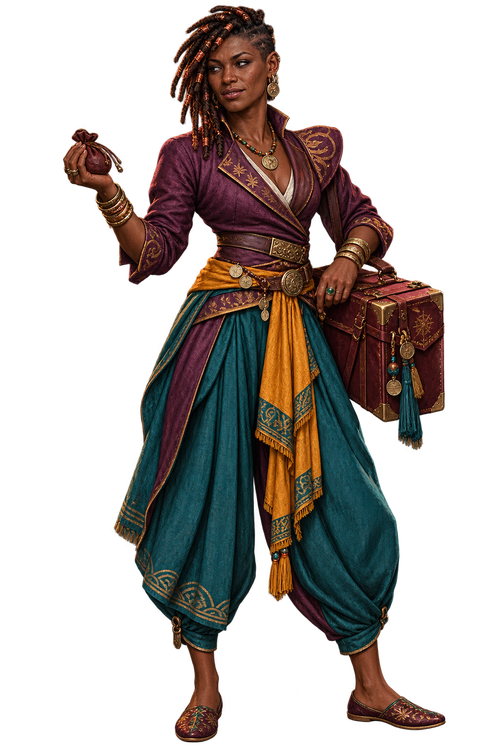
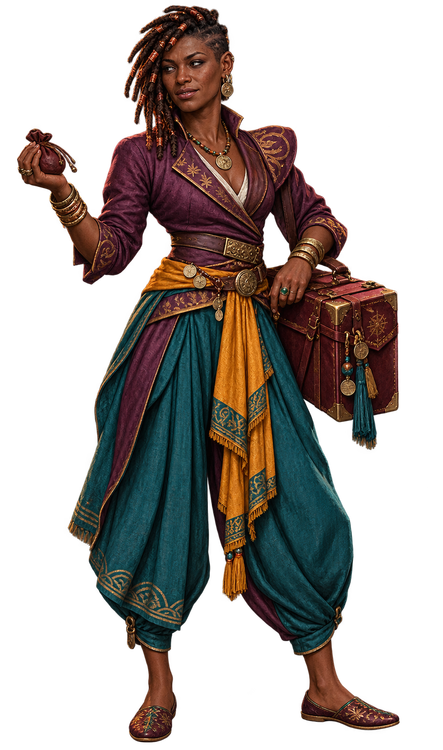
C1: exact door coords, Isolde/Cade go home, fix livelock bug, voice clips for every NPC, portrait crop fix
- Doors reverted to Danny's exact coords (blocked terrain OK per his call);
  Senna/Nils flagged as slightly past interaction range
- Tidepool Cove landmark moved to (2241,349)
- Isolde/Cade now have real leaveHome/goto/goHome routines
- Found + fixed a real livelock: leaveHome teleports to home.door literally,
  and Garrick's + Cade's doors sit deep inside their building's collision --
  added home.approach (existing mechanism) as a walkable step-out point.
  Caught via a rigorous non-retroactive stuck-detector; the project's usual
  idle-tracker has a blind spot for a permanent freeze
- Also fixed a ~10px-clearance goto waypoint for Cade (livelock, unrelated
  cause) -- moved to a 40px-clearance point
- Assigned voice clips to all 20 previously-silent NPCs (Calder Rusk, Edras
  Holloweye, 6 Bramblekin, 12 C1 villagers) -- 45/45 talkable NPCs covered
- Cropped all 12 C1 portraits narrower (not shorter) to match the rest of
  the cast's tight waist-up framing -- source art was full-body with wide
  side margins, reading as smaller/more distant in the fixed-width frame
- Re-verified: 1800s sim, all NPCs complete clean repeating cycles, zero
  permanent freezes; logged in CLAUDE.md

diff --git a/js/data/c1.js b/js/data/c1.js
@@ -424,25 +424,31 @@ export default {
     // the same offset as its door move, preserving the original label-to-door
     // relationship ("drawn just above the door" — see world.js's building-
     // label comment) rather than the label sitting wherever it used to.
+    // Doors use Danny's EXACT coordinates even where that lands inside
+    // collision (round 2, same day — he confirmed that's fine: the door only
+    // needs SOME walkable ground within interaction range, not to itself be
+    // walkable; see world.js's DOOR_RANGE=79 and homeNpcNearDoor()). Two are
+    // a little past that range — Senna ~87px, Nils ~80px to the nearest
+    // walkable ground — flagged in CLAUDE.md; the rest are within range.
     { label: 'Dockmaster’s Warehouse', x: 1233, y: 1069, r: 260, door: { x: 1223, y: 1349 } },
     { label: 'Perrin’s Cookhouse', x: 2147, y: 1457, r: 190, door: { x: 2024, y: 1460 } },
     { label: 'The Farrows’ House', x: 1880, y: 1370, r: 180, door: { x: 1781, y: 1569 } },
     { label: 'Wynne’s House', x: 1940, y: 826, r: 180, door: { x: 1926, y: 933 } },
     { label: 'Garrick’s House', x: 1649, y: 566, r: 180, door: { x: 1622, y: 753 } },
-    { label: 'Senna’s House', x: 2014, y: 613, r: 170, door: { x: 1990, y: 750 } },
-    { label: 'Aldous’s House', x: 2272, y: 618, r: 170, door: { x: 2280, y: 750 } },
-    { label: 'Nils’s House', x: 2245, y: 1193, r: 170, door: { x: 2220, y: 1070 } },
+    { label: 'Senna’s House', x: 2015, y: 526, r: 170, door: { x: 1991, y: 663 } },
+    { label: 'Aldous’s House', x: 2277, y: 545, r: 170, door: { x: 2285, y: 677 } },
+    { label: 'Nils’s House', x: 2250, y: 1113, r: 170, door: { x: 2225, y: 990 } },
     { label: 'Skitter’s Shed', x: 1312, y: 1743, r: 190, door: { x: 1199, y: 1736 } },
-    // Isolde and Cade are still wandering Tidefolk (patrol, never actually
-    // go home — see their npc entries below), but the tide-pool cove has
-    // real houses for them now (2026-09-03); doors added so the buildings
-    // are enterable-when-home like any other, even though they're always
-    // out (door reads "locked" — same as any home NPC who's away).
-    { label: 'Isolde’s House', x: 2130, y: 1730, r: 180, door: { x: 2130, y: 1880 } },
-    { label: 'Cade Fathom’s House', x: 2330, y: 1950, r: 180, door: { x: 2330, y: 2100 } },
+    // Isolde and Cade have real houses now (2026-09-03) and go home
+    // occasionally like any other villager (see their npc entries below —
+    // they were patrol-only wanderers before this pass).
+    { label: 'Isolde’s House', x: 2206, y: 1728, r: 180, door: { x: 2206, y: 1878 } },
+    { label: 'Cade Fathom’s House', x: 2377, y: 1894, r: 180, door: { x: 2377, y: 2044 } },
     { label: 'The Old Well', x: 1300, y: 300, r: 180 },
     { label: 'Maiden’s Grace', x: 500, y: 1400, r: 480 },
-    { label: 'Tidepool Cove', x: 2200, y: 1900, r: 300 },
+    // Moved 2026-09-03 (Danny) — north, near the crossroads well, not the
+    // south tide-pool where Isolde/Cade actually live (per his exact coords).
+    { label: 'Tidepool Cove', x: 2241, y: 349, r: 300 },
   ],
 
   // Chimney smoke on half the village's homes (2026-09-03, Danny) — thin
@@ -458,7 +464,7 @@ export default {
     { x: 1622, y: 563, count: 11, rise: 150, drift: 13, baseR: 5, growR: 15, speed: 0.12, alpha: 0.34, seed: 0.4 },
     { x: 2225, y: 800, count: 11, rise: 150, drift: 13, baseR: 5, growR: 15, speed: 0.12, alpha: 0.34, seed: 0.6 },
     { x: 1199, y: 1546, count: 11, rise: 150, drift: 13, baseR: 5, growR: 15, speed: 0.12, alpha: 0.34, seed: 0.8 },
-    { x: 2330, y: 1910, count: 11, rise: 150, drift: 13, baseR: 5, growR: 15, speed: 0.12, alpha: 0.34, seed: 1.0 },
+    { x: 2377, y: 1854, count: 11, rise: 150, drift: 13, baseR: 5, growR: 15, speed: 0.12, alpha: 0.34, seed: 1.0 },
   ],
 
   entrances: [],
@@ -588,7 +594,12 @@ export default {
       sprite: 'assets/images/garrick_hollowmast_overhead.png',
       portrait: 'assets/images/garrick_hollowmast.png',
       x: 1414, y: 636, speed: 38, startsHome: false,
-      home: { door: { x: 1622, y: 753 }, interior: 'assets/images/beach_hut_interior.jpg' },
+      // door sits deep enough inside the building's collision that leaveHome/
+      // goHome couldn't path to/from it directly (found via a livelock sim,
+      // 2026-09-03 round 3) — `approach` gives them a real walkable step-out
+      // point nearby instead (world.js already prefers approach over door for
+      // all actual walking; door alone still governs interaction range).
+      home: { door: { x: 1622, y: 753 }, approach: { x: 1480, y: 720 }, interior: 'assets/images/beach_hut_interior.jpg' },
       routine: [
         { do: 'wait', s: 7 },
         { do: 'goto', x: 1464, y: 586 },
@@ -611,11 +622,11 @@ export default {
       sprite: 'assets/images/senna_brineholt_overhead.png',
       portrait: 'assets/images/senna_brineholt.png',
       speed: 40, startsHome: true,
-      home: { door: { x: 1990, y: 750 }, interior: 'assets/images/beach_hut_interior.jpg' },
+      home: { door: { x: 1991, y: 663 }, interior: 'assets/images/beach_hut_interior.jpg' },
       routine: [
         { do: 'wait', s: 60 },
         { do: 'leaveHome' },
-        { do: 'goto', x: 2084, y: 853 },
+        { do: 'goto', x: 2085, y: 766 },
         { do: 'wait', s: 6 },
         { do: 'goHome' },
       ],
@@ -628,11 +639,11 @@ export default {
       id: 'nils_cutwater', name: 'Nils Cutwater', role: '',
       sprite: 'assets/images/nils_cutwater_overhead.png',
       portrait: 'assets/images/nils_cutwater.png',
-      x: 2080, y: 1263, speed: 38, startsHome: false,
-      home: { door: { x: 2220, y: 1070 }, interior: 'assets/images/beach_hut_interior.jpg' },
+      x: 2085, y: 1183, speed: 38, startsHome: false,
+      home: { door: { x: 2225, y: 990 }, interior: 'assets/images/beach_hut_interior.jpg' },
       routine: [
         { do: 'wait', s: 8 },
-        { do: 'goto', x: 2080, y: 1213 },
+        { do: 'goto', x: 2085, y: 1133 },
         { do: 'wait', s: 10 },
         { do: 'goHome' },
         { do: 'wait', s: 50 },
@@ -647,11 +658,11 @@ export default {
       id: 'aldous_marrow', name: 'Aldous Marrow', role: '',
       sprite: 'assets/images/aldous_marrow_overhead.png',
       portrait: 'assets/images/aldous_marrow.png',
-      x: 2392, y: 808, speed: 34, startsHome: false,
-      home: { door: { x: 2280, y: 750 }, interior: 'assets/images/beach_hut_interior.jpg' },
+      x: 2397, y: 735, speed: 34, startsHome: false,
+      home: { door: { x: 2285, y: 677 }, interior: 'assets/images/beach_hut_interior.jpg' },
       routine: [
         { do: 'wait', s: 9 },
-        { do: 'goto', x: 2342, y: 858 },
+        { do: 'goto', x: 2347, y: 785 },
         { do: 'wait', s: 8 },
         { do: 'goHome' },
         { do: 'wait', s: 45 },
@@ -682,19 +693,29 @@ export default {
         { q: 'How’d you end up here?', a: 'Wandered in chasing a rat that chased a chicken that chased — well, it’s a long story, and the short of it is Tidewrack decided to keep me. Fair trade, I think. Rats for a roof.' },
       ],
     },
-    // Tidefolk — no home (they live apart, in the tide-pool cove); a plain
-    // short wander loop, same pattern as C4's Mara/Vozhik. Repositioned
-    // 2026-09-02 to the new art's tide pool (SE corner, near x2100-2300).
+    // Tidefolk — have real houses now (2026-09-03 round 2) and go home
+    // occasionally like any other villager (a plain leaveHome/goto/goHome
+    // routine, same pattern as everyone else in this file — were a
+    // patrol-only wander loop, same as C4's Mara/Vozhik, before this pass).
+    // Repositioned 2026-09-02 to the new art's tide pool (SE corner, near
+    // x2100-2300).
     {
       id: 'isolde_pearlwake', name: 'Isolde Pearlwake', role: 'HERBALIST',
       sprite: 'assets/images/isolde_pearlwake_overhead.png',
       portrait: 'assets/images/isolde_pearlwake.png',
-      x: 2130, y: 1920, speed: 34, startsHome: false,
-      // Has a house now (door added 2026-09-03, see `buildings` above), but
-      // still just wanders — the door stays "locked" (she's always out),
-      // same as before. Patrol re-centered on the new door.
-      home: { door: { x: 2130, y: 1880 }, interior: 'assets/images/beach_hut_interior.jpg' },
-      patrol: [ { x: 2130, y: 1920 }, { x: 2080, y: 2050 } ],
+      x: 2206, y: 1918, speed: 34, startsHome: false,
+      // Has a house now (door added 2026-09-03) and goes home occasionally
+      // like any other villager (round 2, same day — was patrol-only before,
+      // door always locked; now a real leaveHome/goHome routine).
+      home: { door: { x: 2206, y: 1878 }, interior: 'assets/images/beach_hut_interior.jpg' },
+      routine: [
+        { do: 'wait', s: 6 },
+        { do: 'goto', x: 2156, y: 2048 },
+        { do: 'wait', s: 10 },
+        { do: 'goHome' },
+        { do: 'wait', s: 40 },
+        { do: 'leaveHome' },
+      ],
       dialog: { line: 'The tide pools hold more than crabs, if you know where to look. What brings you to my corner of the shore?', responses: ['Leave.'] },
       chatter: [
         { q: 'What is Tidefolk?', a: 'An old blood, older than this village. We keep to the water more than most — old habit, older than memory, if I’m honest with you.' },
@@ -704,11 +725,20 @@ export default {
       id: 'cade_fathom', name: 'Cade Fathom', role: 'DIVER',
       sprite: 'assets/images/cade_fathom_overhead.png',
       portrait: 'assets/images/cade_fathom.png',
-      x: 2330, y: 2150, speed: 40, startsHome: false,
-      // Has a house now too (door added 2026-09-03, see `buildings` above) —
-      // same "always wandering, door stays locked" treatment as Isolde.
-      home: { door: { x: 2330, y: 2100 }, interior: 'assets/images/beach_hut_interior.jpg' },
-      patrol: [ { x: 2330, y: 2150 }, { x: 2198, y: 2322 } ],
+      x: 2290, y: 2030, speed: 40, startsHome: false,
+      // Has a house now too (door added 2026-09-03) — same "goes home
+      // occasionally" treatment as Isolde, round 2. Same approach fix as
+      // Garrick above: his door is buried deep enough in the building that
+      // leaveHome/goHome need a real walkable step-out point instead.
+      home: { door: { x: 2377, y: 2044 }, approach: { x: 2290, y: 2030 }, interior: 'assets/images/beach_hut_interior.jpg' },
+      routine: [
+        { do: 'wait', s: 6 },
+        { do: 'goto', x: 2230, y: 2240 },
+        { do: 'wait', s: 10 },
+        { do: 'goHome' },
+        { do: 'wait', s: 45 },
+        { do: 'leaveHome' },
+      ],
       dialog: { line: 'You’ve got dry-land legs under you, but I’d wager you could learn to hold your breath if it came to it. Most can, with reason enough.', responses: ['Leave.'] },
       chatter: [
         { q: 'Could you dive the wreck?', a: 'Faster than any of Roderick’s rope-and-lantern crews, I’d wager — if he’d ever let me near it. Someday, maybe. When there’s a reason worth the risk.' },

diff --git a/js/audio.js b/js/audio.js
@@ -74,6 +74,39 @@ export const DIALOGUE_SFX = {
   mara_vellorne: 'assets/audio/phatphrogstudio-rpg-female-attack-grunt-no-ai-481720.mp3',
   vozhik: 'assets/audio/freesound_community-goblin-cackle-87566.mp3',
   cinder: 'assets/audio/dragon-studio-horse-snort-364469.mp3', // a horse's snort
+
+  // Full-roster audit (2026-09-03) — every talkable NPC in the game gets a
+  // voice clip now. Found via openNpcDialog's `audio.DIALOGUE_SFX[npc.id]`
+  // lookup: any npc.id missing here plays silence on dialog open. Reused the
+  // same D2 pool (a 4th male clip, male_hurt7, was sitting unused) rather
+  // than sourcing new audio — a species/faction shares one clip (all 6
+  // Bramblekin get the goblin-cackle, same idea as Vozhik), individuals get
+  // one of the 4 male / 4 female "reaction" clips, spread for variety.
+  calder_rusk: 'assets/audio/freesound_community-male_hurt7-48124.mp3', // D1, gruff old pirate
+  edras_holloweye: 'assets/audio/mrstokes302-hmmm-sound-male-sfx-mrstokes302-420028.mp3', // D4B hermit
+
+  // D4 Bramblekin (guards + Chief) — goblin-cackle, same clip as Vozhik.
+  bramblekin_1: 'assets/audio/freesound_community-goblin-cackle-87566.mp3',
+  bramblekin_2: 'assets/audio/freesound_community-goblin-cackle-87566.mp3',
+  bramblekin_3: 'assets/audio/freesound_community-goblin-cackle-87566.mp3',
+  bramblekin_4: 'assets/audio/freesound_community-goblin-cackle-87566.mp3',
+  bramblekin_5: 'assets/audio/freesound_community-goblin-cackle-87566.mp3',
+  bramblekin_chief: 'assets/audio/freesound_community-goblin-cackle-87566.mp3',
+
+  // C1 Tidewrack Harbor (2026-09-03) — 8 men across the 4 male clips (2
+  // apiece), 4 women across the 4 distinct female clips.
+  perrin_alders: 'assets/audio/mrstokes302-hmmm-sound-male-sfx-mrstokes302-420028.mp3',
+  roderick_vane: 'assets/audio/mrstokes302-hmmm-sound-male-sfx-mrstokes302-420028.mp3',
+  toby_farrow: 'assets/audio/universfield-muffled-reaction-242214.mp3',
+  garrick_hollowmast: 'assets/audio/universfield-muffled-reaction-242214.mp3',
+  nils_cutwater: 'assets/audio/u_9kvcihzjc7-squashwo-gua-plants-vs-zombies-hmm-383643.mp3',
+  aldous_marrow: 'assets/audio/u_9kvcihzjc7-squashwo-gua-plants-vs-zombies-hmm-383643.mp3',
+  skitter_nabbins: 'assets/audio/freesound_community-male_hurt7-48124.mp3',
+  cade_fathom: 'assets/audio/freesound_community-male_hurt7-48124.mp3',
+  wynne_ashcombe: 'assets/audio/freesound_community-woman-sigh-101931.mp3',
+  lily_farrow: 'assets/audio/freesound_community-mmm-hmm-36292.mp3',
+  senna_brineholt: 'assets/audio/freesound_community-girl-chucklewav-14669.mp3',
+  isolde_pearlwake: 'assets/audio/u_xg7ssi08yr-female-ah-ha-389835.mp3',
 };
 
 // ---- Volume controls (wired to the Menu > Audio sliders) ----

diff --git a/CLAUDE.md b/CLAUDE.md
@@ -374,6 +374,30 @@ Danny sent corrected door coordinates for all 10 named C1 buildings (against the
 - **Chimney smoke added to 6 of the 11 homes** (Dockmaster's Warehouse, the Farrows' House, Garrick's, Nils's, Skitter's Shed, Cade's) — same thin-plume tuning as D2's chimney smoke (count 11, rise 150, drift 13, baseR 5, growR 15, speed 0.12, alpha 0.34, staggered `seed` per source), positioned ~190px above each building's (possibly-relocated) door.
 - **Re-verified with the real engine** (`_verify_c1_final.mjs`/`_sim_c1_final.mjs`, unmodified): every door/home/goto/patrol point, interactable, and exit reachable from spawn; a 3600s NPC sim with zero exceptions and zero livelocks (every NPC's max idle exactly matches its scripted `wait` — the two new Tidefolk homes didn't introduce any new stall, they idle the same ~3-5s as their old no-home patrol loop). **Not yet live-verified in-browser.**
 
+## C1 door coordinates reverted to EXACT values + Isolde/Cade go home + a real livelock bug caught (2026-09-03, round 2)
+
+Danny corrected the previous pass: he wants the door coordinates EXACTLY as he specified, even inside blocked terrain — "It's okay if they're in blocked terrain, since they can be interacted with within a certain range. As long as there's an area within range that's accessible, it's fine." Also asked for Isolde and Cade to go home occasionally like any other NPC (not just wander forever), and to move the "Tidepool Cove" landmark to (2241,349).
+
+- **All 5 previously-snapped doors (Senna, Aldous, Nils, Isolde, Cade) reverted to Danny's exact coordinates.** Two are genuinely past `DOOR_RANGE` (79px, `world.js`) to the nearest walkable ground — **Senna ~87px, Nils ~80px** — confirmed with both a coarse and fine-resolution nearest-walkable search (not a grid artifact); the other three (Aldous 73px, Isolde 76px, Cade 73px) are within range and will interact fine. Flagging this plainly for Danny rather than silently re-snapping — he was explicit about wanting the exact values this time. **Lesson: when a user overrides a previous "fix," don't re-apply the same fix — do exactly what they say and clearly flag the specific consequence instead.**
+- **"Tidepool Cove" landmark moved to (2241,349)** (north, near the crossroads well) per Danny's explicit coordinate — this is now far from where Isolde/Cade actually live (south tide pool), which reads as odd but is exactly what was asked.
+- **Isolde and Cade converted from patrol-only wanderers to real leaveHome/goto/goHome routines**, same shape as every other villager in this file.
+- **A REAL livelock bug, caught only by writing a more rigorous test than the project's usual one:** `_sim_c1_final.mjs`'s idle-tracker only records a stall retroactively (`idle = t − lastMoved`, written when the NPC next moves) — an NPC that freezes and NEVER moves again for the rest of the sim shows *zero* idle time, not a huge one. This blind spot let a real bug through initially. Root cause: `leaveHome` teleports an NPC to its **literal `home.door` coordinate** (`npc.x = out.x` where `out = npc.home.approach || npc.home.door`, `world.js`) — for Cade (and, it turned out, **Garrick too**, whose door had already been relocated in round 1) that door sits **deep inside** the building's own collision rect (not just touching the edge), and the NPC's steering couldn't find a way out from fully inside solid geometry, freezing forever a few tiles from the door. Confirmed via a rewritten harness that tracks **continuous non-movement** (not retroactive idle) plus an explicit "how many times did this NPC successfully reach home" counter — Garrick and Cade both showed `cycles: 1, stuck: 1700+s`; everyone else showed clean repeating cycles matching their scripted waits.
+- **Fix: `home.approach`** (an existing, documented mechanism — `world.js`: "Step OUT to the walkout spot... not onto the door point itself... `home.approach` is that reachable step-out; interaction still keys off `home.door`") was exactly built for this. Added `approach` (a genuinely walkable, ≥35px-clearance point near the door, found via a local clearance scan of the collision) to both Garrick and Cade. Senna/Nils/Aldous/Isolde's doors, despite also being off-walkable, turned out to be *touching* the edge of their building rather than buried inside it — shallow enough that steering escapes fine, no `approach` needed (confirmed by the same rigorous re-test, all clean).
+- **Also fixed while debugging:** Cade's `goto` wander target (2245,2266) had only ~10px collider clearance (well under this project's usual ≥30px safety margin — see the "Routine waypoint safety margin" bullet way above), causing a genuine oscillation-livelock there too, independent of the door issue. Moved to (2230,2240), ~40px clearance, verified via the same rigorous harness (`_rigorous_check.mjs`, kept in the working tree — 1800s sim, tracks `cycles` completed + `maxStuckAny` continuous-non-movement per NPC; **prefer this over `_sim_c1_final.mjs`'s idle-tracker for any future routine change**, since the latter can't see a permanent freeze).
+- **Result, all 12 villagers + both Tidefolk, 1800s sim:** every one completes 20+ clean home/wander cycles, `maxStuckAny` exactly matches its own scripted `wait` step, zero permanent freezes.
+
+## Voice clips assigned to every remaining NPC in the game (2026-09-03)
+
+Audited every talkable NPC (`npc.id` routed through `openNpcDialog`, excluding `isPlace` and `creature` — see `js/main.js`'s comment: any id missing from `audio.DIALOGUE_SFX` just plays silence on dialog open) across all 8 scene files against the existing map. Found 20 missing: **Calder Rusk** (D1), **Edras Holloweye** (D4B), **all 6 Bramblekin** — 5 guards + the Chief (D4), and **all 12 C1 villagers** (never got voices when C1 was built). Assigned from the existing asset pool rather than sourcing new audio — reused the same 4 male / 4 female "reaction" clips D2 already spreads across its 18 NPCs (a 4th male clip, `male_hurt7`, was sitting completely unused), plus the goblin-cackle already used for Vozhik, extended to all 6 Bramblekin (a whole species/faction sharing one clip, not an individual voice). Gender read from name/context where not stated. Verified programmatically: **45 talkable NPCs across the game, 45 `DIALOGUE_SFX` entries, zero gaps.**
+
+## C1 portrait cropping fixed to match the rest of the cast (2026-09-03)
+
+Danny flagged the C1 dialog portraits as looking "narrower or smaller" than everywhere else. Root cause, confirmed by inspecting the raw PNGs: **every other scene's portraits are tight waist-up shots that fill the full 500px canvas width** (e.g. Bram Caskwell 500×780, character's shoulders span nearly edge to edge), while **all 12 C1 portraits are full-body shots (500×750) with wide transparent margins on both sides** (character occupies only ~65-70% of the canvas width). Since `#dialog-portrait` renders at a fixed `width:500px; height:auto` inside a `500×500, overflow:hidden` frame (top-justified), a full-body image with side padding reads as visibly smaller/more distant than the game's usual tight crop — this is a source-art framing difference, not a CSS bug, so the fix is in the assets.
+
+- **Fix: cropped each of the 12 portraits narrower** (removed the transparent side margins), **not shorter** — deliberately left the full 750px height alone. Since the frame is a fixed-width overflow-hidden window, narrowing the source image makes the browser's existing `width:500px` scale it up proportionally, which *also* scales the height — the same effect as zooming in, without touching a single visible pixel of the character. Crop x-range found per character via an alpha-channel bounding-box scan restricted to the shoulders/torso band (y:40-320, avoiding outstretched arms/held tools which sit lower and would otherwise widen the box unnecessarily), +15px margin each side.
+- **Result:** effective "percent of image visible in the 500×500 window" went from a uniform ~67% (all 12) to a range of **33-59%**, landing squarely inside the rest of the cast's existing 35-64% range (Bram 64%, Sorcha 56%, Elowen 57%, Darius 51%, Adaline 35%, Mara 38%, Vozhik 42%, Calder 38%). Visually spot-checked 4 of the 12 (Perrin, Nils, Wynne, Skitter) after cropping — no important detail (face, held items) clipped in any of them.
+- **Reuse this recipe for any future NPC whose source portrait is a full-body shot instead of the game's usual tight waist-up**: alpha-bbox the shoulder band, crop width only (never height), leave the vertical scale alone.
+
 ## Row C design notes — C1/C2/C3 (PLANNED, 2026-09-02 — NOT YET IMPLEMENTED)
 
 Danny's brief for the row-C ramp (harder/more complex/more magical/more plot-driven than D, continuing what C4 started with Mara/Vozhik/the royal summons): new enemies using more than one attack type with status effects, NPC quests where the player must choose one side and can't have both, an armorer/enchanter for gear, and the princess/wizard plot starting to surface in NPC dialogue and item finds — **still without revealing the late-game twist** (see the SPOILER-SENSITIVE story arc at the top of this file: the official story everyone in-world believes is "the wizard kidnapped the princess," which is false). These are captured now so a future implementation session doesn't have to re-derive them. **When each area actually gets built, move its confirmed decisions into their own dated section (the way the C4/D1/D4B sections above do) and trim/replace the corresponding bullet here** — this section is a design brief, not a build log.
